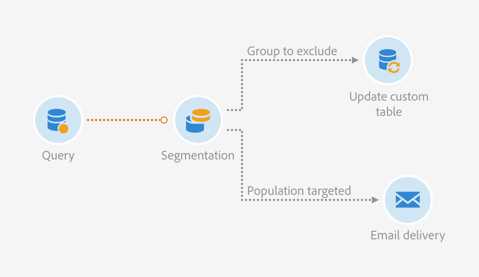
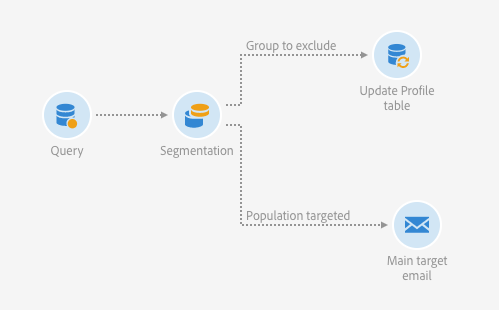
wkf control group update

diff --git a/help/automating/using/workflow-control-group.md b/help/automating/using/workflow-control-group.md
@@ -23,17 +23,27 @@ To measure the impact of a delivery, you may want to exclude some profiles from 
 To do this in Adobe Campaign Standard, you can build a workflow including the following activities:
 * A Query activity to target a given population.
 * A Segmentation activity to isolate a random control group from this population.
-* An Email delivery activity to send a message to the main target, which will be tracked as usual in the sending logs.
-* An Update data activity to track the profiles excluded from the target in the **[!UICONTROL Profiles]** resource, outside the message sending logs.
+* An Email delivery activity to send a message to the main target.
+* An Update data activity to update the profiles that were excluded from the target (the random control group).
 
 ![](assets/wkf_control-group.png)
 
 ## Extending the Profile resource {#extending-profile}
 
+First, you need to extend the **[!UICONTROL Profile]** resource with a new field corresponding to the control group. Once the workflow is run, this field will be checked for the profiles that were excluded from the target.
+
 1. From **[!UICONTROL Administration]** > **[!UICONTROL Development]** > **[!UICONTROL Custom Resources]**, click **[!UICONTROL Create]**.
-1. If you haven't extended it yet, select **[!UICONTROL Extend an existing resource]** and choose the **[!UICONTROL Profiles]** resource.
-1. Add a new field for the control group and select **[!UICONTROL Boolean]** for the field **[!UICONTROL Type]**.
-2. Update the database structure to publish the **[!UICONTROL Profiles]** extended resource.
+1. If you haven't extended it yet, select **[!UICONTROL Extend an existing resource]** and choose the **[!UICONTROL Profile]** resource.
+1. In the **[!UICONTROL Data structure]** tab, add a new field for the control group and select **[!UICONTROL Boolean]** for the **[!UICONTROL Type]** field.
+
+    ![](assets/wkf_control-group-profile-field.png)
+
+1. From the **[!UICONTROL Screen definition]** tab, unfold the **[!UICONTROL Detail screen configuration]** section and select the field that you just created so that it will be displayed for each profile.
+
+    ![](assets/wkf_control-group-profile-field-screen.png)
+
+1. Save your changes.
+1. Update the database structure to publish the **[!UICONTROL Profile]** extended resource. See [Publishing a custom resource](../../developing/using/updating-the-database-structure.md#publishing-a-custom-resource).
 
 For more on extending a custom resource, see [Key steps to add a resource](../../developing/using/key-steps-to-add-a-resource.md).
 
@@ -43,12 +53,16 @@ For more on extending a custom resource, see [Key steps to add a resource](../..
 1. Select **[!UICONTROL New Workflow]** as workflow type and click **[!UICONTROL Next]**.
 1. Enter the properties of the workflow and click **[!UICONTROL Create]**.
 
+The detailed steps to create a workflow are presented in the [Building a workflow](../../automating/using/building-a-workflow.md) section.
+
 ## Creating a Query activity {#create-a-query-activity}
 
 1. In **[!UICONTROL Activities]** > **[!UICONTROL Targeting]**, drag and drop a **[!UICONTROL Query activity]**.
 1. Double-click the activity to define your target.
-1. For example, in **[!UICONTROL Shortcuts]**, drag and drop **[!UICONTROL Profiles]**, select **[!UICONTROL Age]** with the operator **[!UICONTROL Greater than]** and type 25 in the **[!UICONTROL Value]** field.
+1. For example, in **[!UICONTROL Shortcuts]**, drag and drop **[!UICONTROL Profile]**, select **[!UICONTROL Age]** with the operator **[!UICONTROL Greater than]** and type 25 in the **[!UICONTROL Value]** field.
 1. Click **[!UICONTROL Confirm]**.
+
+The detailed steps to build a Query activity are presented in the [Query](../../automating/using/query.md) section.
 
 ## Creating a Segmentation activity {#creating-a-segmentation-activity}
 
@@ -69,6 +83,8 @@ For more on extending a custom resource, see [Key steps to add a resource](../..
 
 1. Click **[!UICONTROL Confirm]**.
 
+The detailed steps to build a Segmentation activity are presented in the [Segmentation](../../automating/using/segmentation.md) section.
+
 ## Creating an Email activity {#creating-an-email-activity}
 
 1. In **[!UICONTROL Activities]** > **[!UICONTROL Channels]**, drag and drop an **[!UICONTROL Email Delivery]** after the main target segment.
@@ -80,32 +96,33 @@ For more on extending a custom resource, see [Key steps to add a resource](../..
 1. Edit and save your content.
 1. In the **[!UICONTROL Schedule]** section of the message dashboard, unselect the **[!UICONTROL Request confirmation before sending messages}** option.
 
+The detailed steps to build a Email activity are presented in the [Email delivery](../../automating/using/email-delivery.md) section.
+
 ## Creating an Update data activity {#creating-update-data-activity}
 
 1. Drag and drop an **[!UICONTROL Update data]** activity after the control group segment.
 1. Select the activity, then open it using the ![](assets/edit_darkgrey-24px.png) button from the quick actions that appear.
-1. In the **[!UICONTROL Identification]** tab, select the **[!UICONTROL Profiles]** resource that you previously extended.
+1. In the **[!UICONTROL General]** tab, select **[!UICONTROL Update]** from the **[!UICONTROL Operation type]** drop-down list.
+1. In the **[!UICONTROL Identification]** tab, select the **[!UICONTROL Profile]** resource that you previously extended.
 
     ![](assets/wkf_control-update-identification.png)
 
-1. In the **[!UICONTROL Fields to update]** tab, specify the fields on which the update will be applied: select the control group field that you added to the **[!UICONTROL Profiles]** resource as the **[!UICONTROL Destination]** through the **[!UICONTROL Additional data]** > **[!UICONTROL Targeting dimension]** node.
+1. In the **[!UICONTROL Fields to update]** tab, specify the fields on which the update will be applied: select the control group field that you added to the **[!UICONTROL Profile]** resource as the **[!UICONTROL Destination]** through the **[!UICONTROL Additional data]** > **[!UICONTROL Targeting dimension]** node.
 
     ![](assets/wkf_control-update-fields-to-update.png)
 
 1. Click **[!UICONTROL Confirm]**.
 
-Once the workflow is run, the message is sent to the main target and tracked in the sending logs for these profiles.
+The detailed steps to build a Update data activity are presented in the [Update data](../../automating/using/update-data.md) section.
 
-The population of the control group is excluded and the **[!UICONTROL Profiles]** resource is updated: if a profile was in the control group, the corresponding field is updated.
+## Running the workflow {#running-the-workflow}
+
+Click **[!UICONTROL Start]** to run the workflow.
+
+Once the workflow is run, the population of the control group is excluded and the message is sent to the remaining main target.
+
+The **[!UICONTROL Profile]** resource is updated as follows: if a profile was in the control group, the corresponding field is checked.
+
+![](assets/wkf_control-group-profile-checked.png)
 
 You can now compare how the recipients of the message will react compared to the small group who was excluded from the message and did not receive it.
-
-**Related topics:**
-
-* [Publishing a custom resource](../../developing/using/updating-the-database-structure.md#publishing-a-custom-resource)
-* [Building a workflow](../../automating/using/building-a-workflow.md)
-* [Query](../../automating/using/query.md)
-* [Segmentation](../../automating/using/segmentation.md)
-* [Email delivery](../../automating/using/email-delivery.md)
-* [Update data](../../automating/using/update-data.md)
-* [Monitoring a delivery](../../asending/using/monitoring-a-delivery.md)

diff --git a/help/TOC.md b/help/TOC.md
@@ -272,6 +272,7 @@ user-guide-title: Adobe Campaign Standard Help
        + [Creating a weekly delivery](automating/using/workflow-weekly-offer.md)
        + [Creating a segmentation on location](automating/using/workflow-segmentation-location.md)
        + [Retargeting non-openers](automating/using/workflow-cross-channel-retargeting.md)
+       + [Building a control group](automating/using/workflow-control-group.md)
 + Developing {#developing}
   + About custom resources {#about-custom-resources}
        + [Data model concepts](developing/using/data-model-concepts.md)
